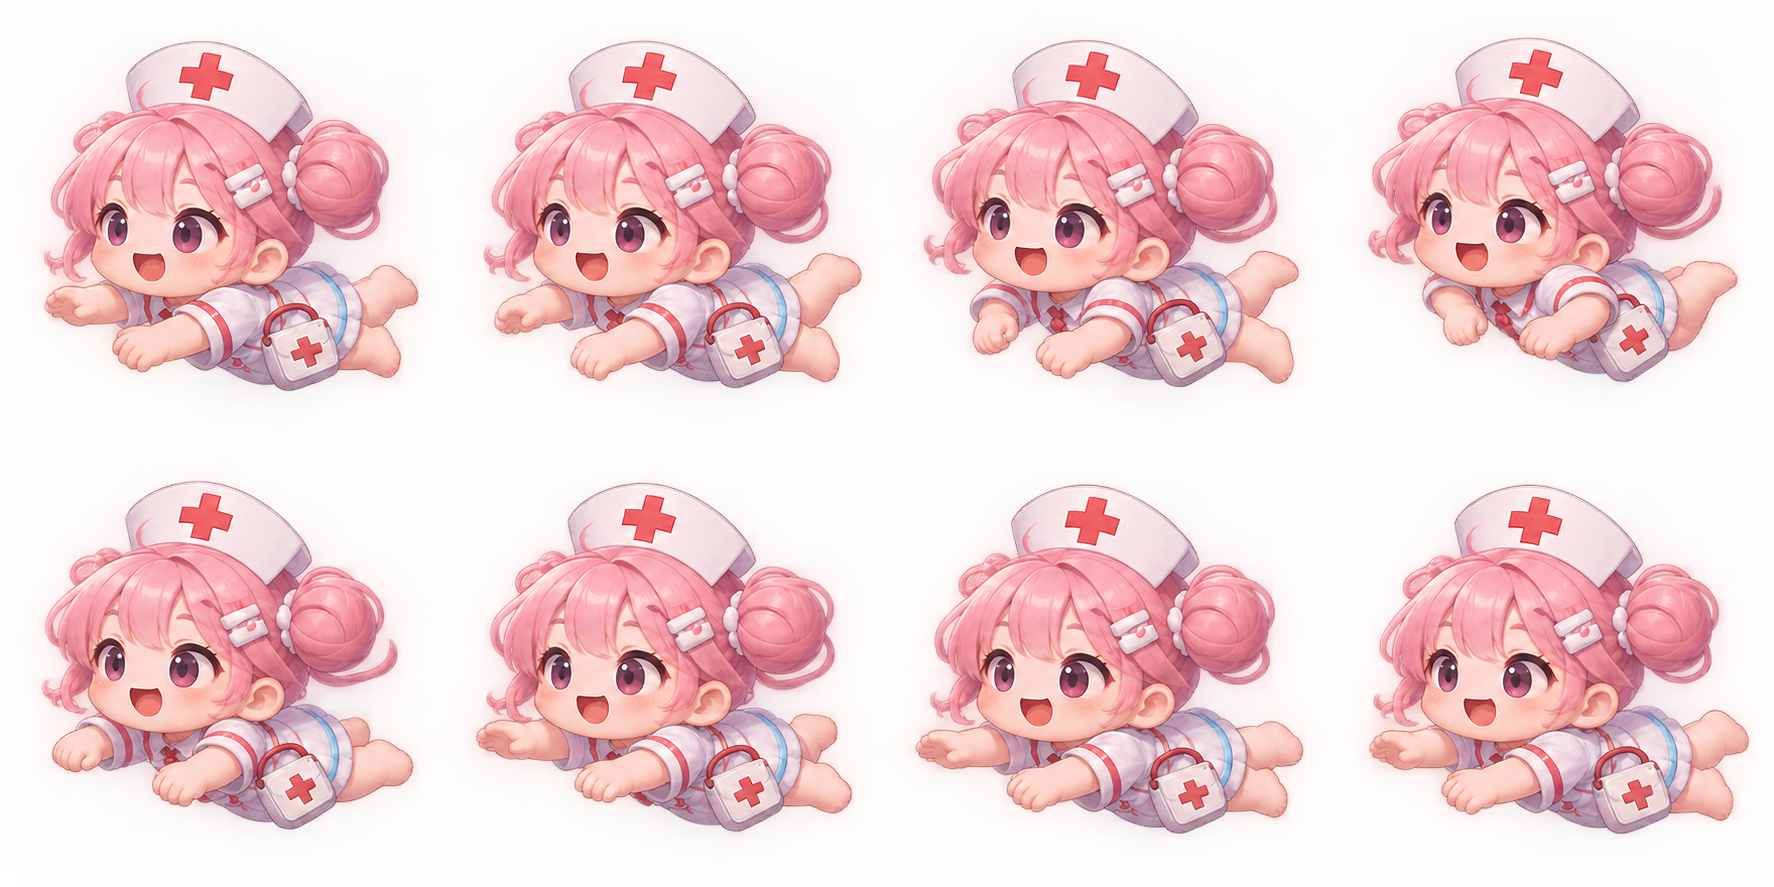
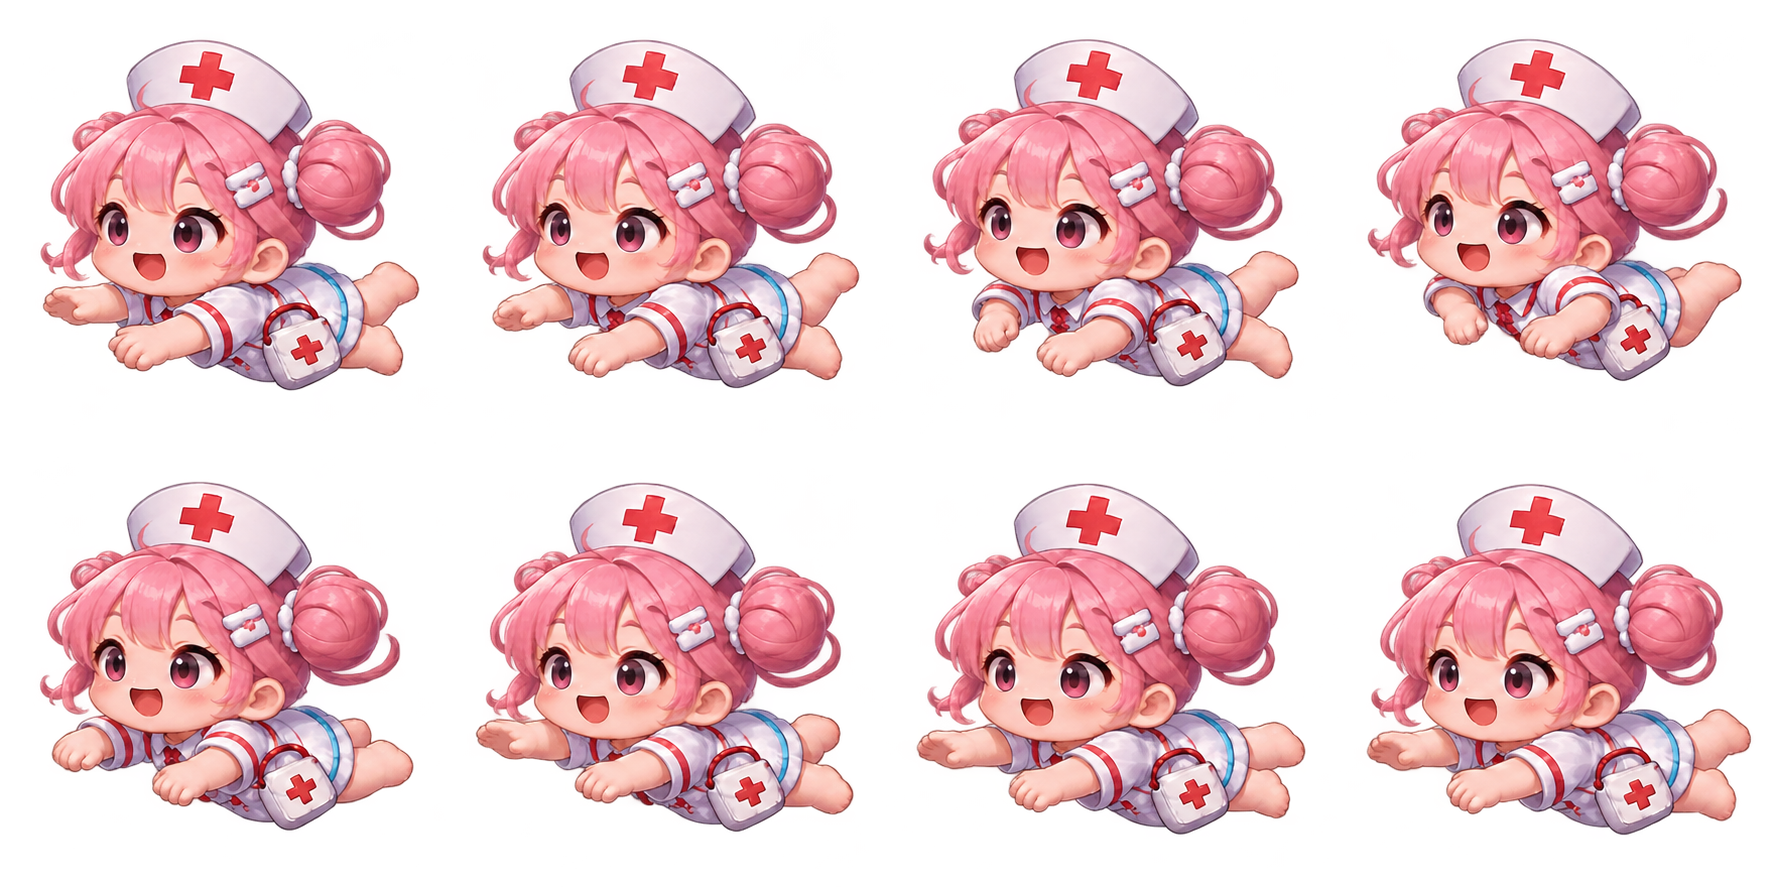
fix(human-fishing): replace sleepy nurse idol swim art with approved clean-alpha PNGs

diff --git a/human-fishing/index.html b/human-fishing/index.html
@@ -439,7 +439,7 @@ font:800 11px/1.2 system-ui,sans-serif;letter-spacing:.4px}
 <script src="./fish-expansion-catalog-012.js?v=20261109-user-six"></script>
 <script src="./assets/octopus/octopus-sidekicks.js?v=9-clean-sprite-frames"></script>
 <script src="./assets/humans/ready.js?v=20261110-baby-v1"></script>
-<script src="./human-sprites.js?v=20261111-human-swim11-v2"></script>
+<script src="./human-sprites.js?v=20261111-human-swim11-alpha-v4"></script>
 <script src="./gamepad.js?v=20261110-g8plus-haptics-v2"></script>
 <script src="./foley.js?v=20261111-capture-gun-recordings-v1"></script>
 <script src="./ambient.js?v=20261110-ambient-preload-v3"></script>

diff --git a/human-fishing/human-sprites.js b/human-fishing/human-sprites.js
@@ -24,7 +24,7 @@ if(enabled){
  Object.keys(swimVariantById).forEach(function(id){
   var variant=swimVariantById[id],img=new Image(); // Boot preloads this resource.
   img.decoding='async';
-  img.src='./assets/humans/baby_swim_'+variant+'_8f.png?v='+(Number(id)>=24?'20261111-human-swim11-v2':'20261111-human-swim4-v1');
+  img.src='./assets/humans/baby_swim_'+variant+'_8f.png?v='+(Number(id)>=24?'20261111-human-swim11-alpha-v4':'20261111-human-swim4-v1');
   swimVariants[id]=img;
  });
 }
